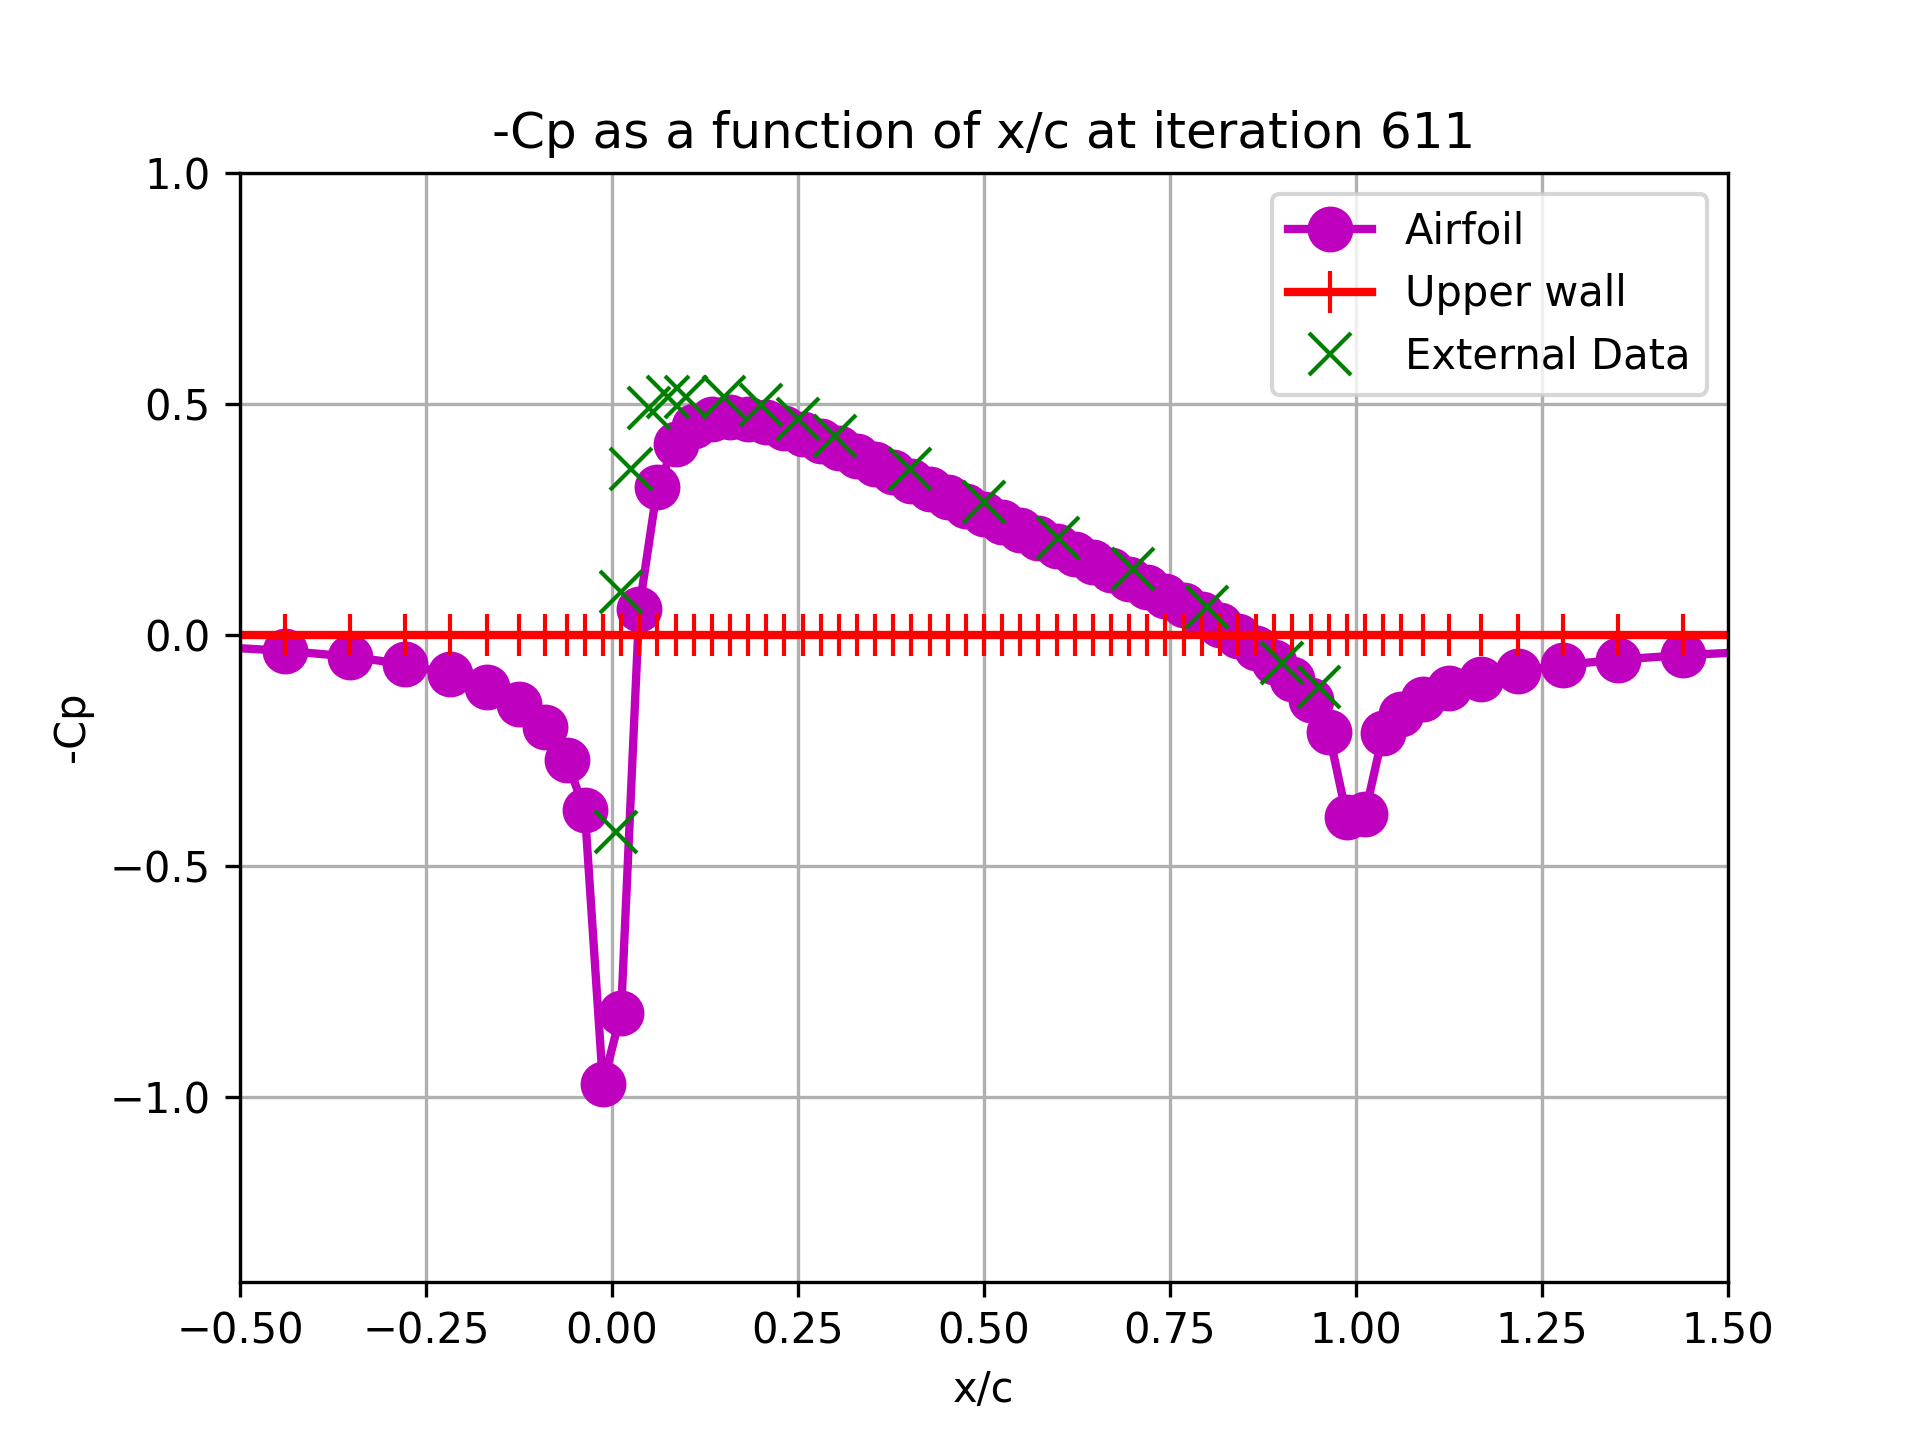
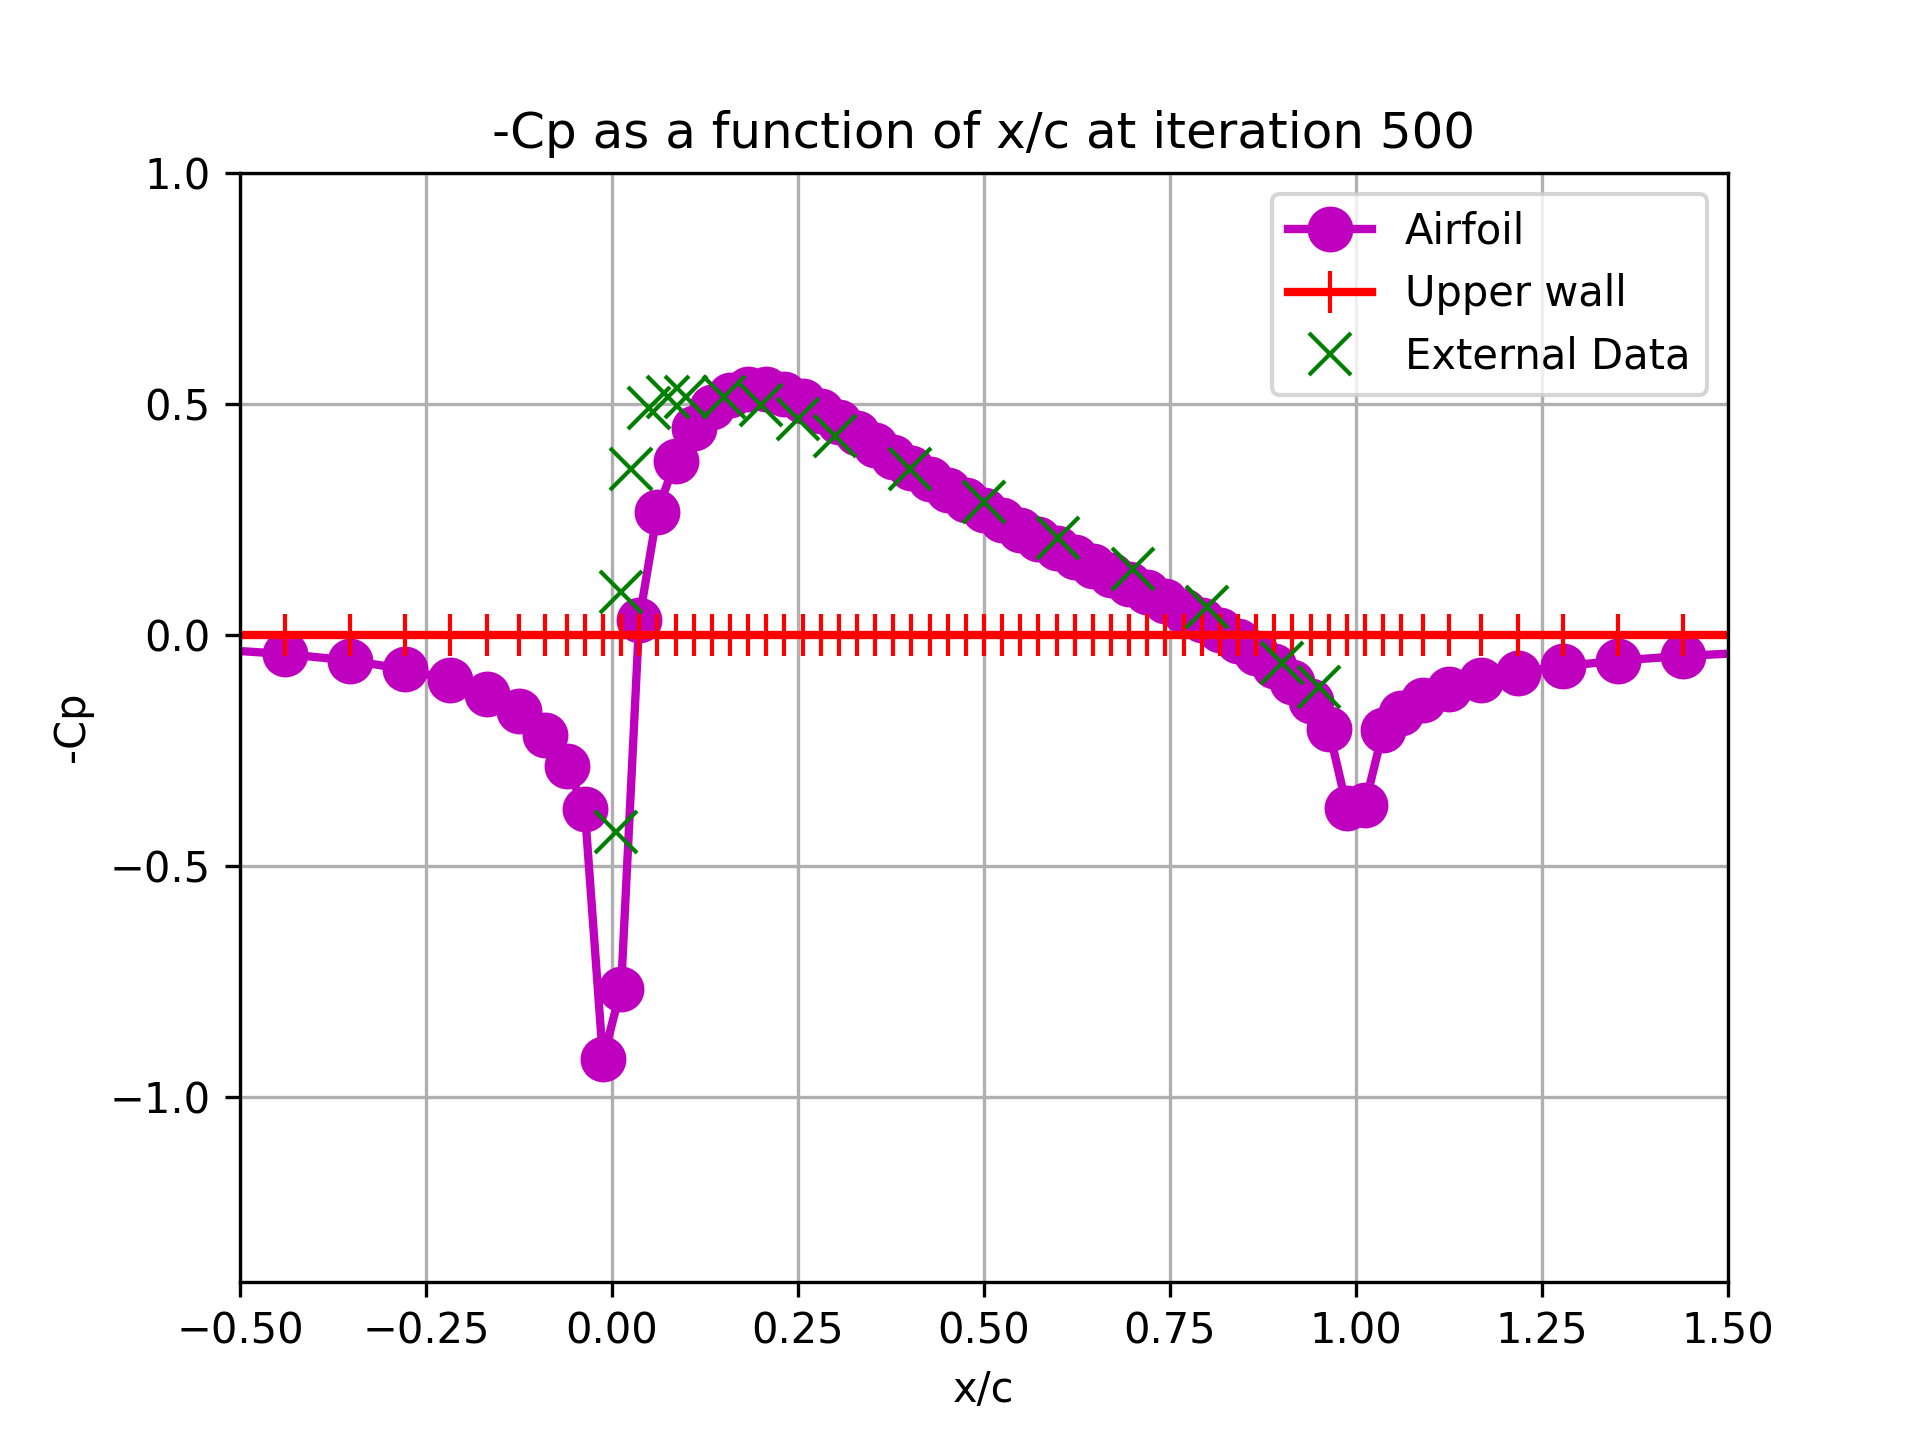
kinda working

diff --git a/HW4/code/lsd_old.py b/HW4/code/lsd_old.py
@@ -1,65 +1,64 @@
 import numpy as np
 import matplotlib.pyplot as plt
 from math import sqrt
-import time
 
-from tri import solve_tridiagonal
+def solve_tridiagonal(a, b, c, f):
+    """
+    Thomas algorithm to solve tridiagonal system.
+    Input arrays a, b, c, and f are 1D NumPy arrays.
+    This function modifies f in place and returns the solution.
+    (Based on tri.m)
+    """
+    M = len(a)
+    x = np.zeros(M)
+    # forward sweep
+    x[0] = c[0] / b[0]
+    f[0] = f[0] / b[0]
+    for j in range(1, M):
+        z = 1.0 / (b[j] - a[j] * x[j-1])
+        x[j] = c[j] * z
+        f[j] = (f[j] - a[j] * f[j-1]) * z
+    # backward sweep
+    for j in range(M-2, -1, -1):
+        f[j] = f[j] - x[j] * f[j+1]
+    return f
 
-def main(condition=0, show_plots=True):
+def main():
     # -------------------------------------------------------------------------
     # Parameters (translated from lsd.m)
     # -------------------------------------------------------------------------
+    condition = 0
+    minf = 0.8 #if condition == 1 else 0.80   # Freestream Mach number
     thickness = 0.10                         # Airfoil thickness
 
     # SLOR parameters
     omega = 1.97
-    itmax = 500
+    itmax = 800
     itplot = 200
-    
-    gamma = 1.4
 
     # Mesh input parameters
-    
-    # case from hw3
-    if condition == 1:
+    if condition <= 2:
         j_le = 33     # leading edge index
         j_te = 63     # trailing edge index
         jmax = 95     # total x points
         kmax = 33     # total y points
         xsf = 1.18    # x stretching factor
         ysf = 1.18    # y stretching factor
-        airfoil_type = 0   # airfoil type - 0 for NACA0010 and 1 for biconvex airfoil
-        minf = 0.0
     else:
-        j_le = 33
-        j_te = 73
-        jmax = 105
-        kmax = 43
-        xsf = 1.2
-        ysf = 1.2
-        if condition == 2:
-            minf = .8
-            airfoil_type = 0
-        elif condition == 3:
-            minf = 0.75
-            airfoil_type = 1
-        elif condition == 4:
-            minf = 0.8
-            airfoil_type = 0
-        elif condition == 5:
-            minf = 0.8
-            airfoil_type = 1
-        elif condition == 6:
-            minf = 0.75
-            airfoil_type = 0
+        j_le = 63
+        j_te = 123
+        jmax = 185
+        kmax = 63
+        xsf = 1.10
+        ysf = 1.10
+        if condition == 4:
             ysf = 1.0
-
 
     kconst = 3      # number of constant-spaced mesh points
     dxdy = 1.0      # ratio of dx to dy at airfoil surface
 
     # Upper wall boundary?
-    if condition == 6:
+    if condition == 4:
         iwall = 1
     else:
         iwall = 0
@@ -83,7 +82,6 @@ def main(condition=0, show_plots=True):
     # Convert: for i from (j_le - kconst - 1) down to 1 (MATLAB) => Python indices: from (j_le - kconst - 1 - 1) down to 0.
     for i in range(j_le - kconst - 2, -1, -1):
         x[i] = x[i+1] + (x[i+1] - x[i+2]) * xsf
-
 
     # Downstream stretching (MATLAB: for ji=j_te+kconst+1:1:jmax)
     for i in range(j_te + kconst, jmax):
@@ -121,12 +119,8 @@ def main(condition=0, show_plots=True):
     dxp2 = 1.0 / (dx ** 2)
     dxm2 = 1.0 / (dx ** 2)
     for j in range(1, jmax-1):
-        dxp2[j] = 1 / (dx[j]* (x[j+1] - x[j]))
-        dxm2[j] = 1 / (dx[j]* (x[j] - x[j-1]))
-        
-    # set initial things
-    dxp2[0] = dxp2[1]
-    dxm2[0] = dxm2[1]
+        dxp2[j] = 1 / (dx[j] * (x[j+1] - x[j]))
+        dxm2[j] = 1 / (dx[j] * (x[j] - x[j-1]))
 
     # Calculate spacing in y-direction
     dy = np.full(kmax, dy1)
@@ -151,7 +145,7 @@ def main(condition=0, show_plots=True):
                      0.3, 0.4, 0.5, 0.6, 0.7, 0.8, 0.9, 0.95, 1.0])
     potcp = np.array([1.0, 0.282, -0.061, -0.237, -0.325, -0.341, -0.341, -0.341,
                       -0.329, -0.309, -0.284, -0.237, -0.190, -0.138, -0.094, -0.040,
-                      0.04, 0.075, 1.0]) 
+                      0.04, 0.075, 1.0])
     
     print("DX1 is", dx1, "DY1 is", dy1)
     print("XMAX is", x[-1], "YMAX is", y[-1])
@@ -163,7 +157,6 @@ def main(condition=0, show_plots=True):
     ax1.set_title('Mesh')
     ax1.set_xlabel('x/c')
     ax1.set_ylabel('y/c')
-    
 
     # Pre-allocate arrays for SLOR iterations
     a = np.zeros(kmax)
@@ -190,19 +183,13 @@ def main(condition=0, show_plots=True):
         bc = np.zeros(jmax)
         # Loop from j_le to j_te (MATLAB indices) => Python indices: j_le-1 to j_te-1
         for j in range(j_le - 1, j_te):
-            # NACA00xx airfoil
-            if airfoil_type == 0:
-                x_int = 1.008930411365  # NACA00xx airfoil slope constant
-                # Avoid division by zero in sqrt; x[j] is positive in the airfoil region
-                dphidy = 5 * thickness * (0.2969 * 0.5 * sqrt(x_int / x[j])
-                                        - 0.126 * x_int
-                                        - 0.3516 * 2 * x_int**2 * x[j]
-                                        + 0.2843 * 3 * x_int**3 * x[j]**2
-                                        - 0.1015 * 4 * x_int**4 * x[j]**3)
-            # Biconvex airfoil
-            elif airfoil_type == 1:
-                dphidy = 2 * thickness * (1 - 2 * x[j])
-
+            x_int = 1.008930411365  # NACA00xx airfoil slope constant
+            # Avoid division by zero in sqrt; x[j] is positive in the airfoil region
+            dphidy = 5 * thickness * (0.2969 * 0.5 * sqrt(x_int / x[j])
+                                      - 0.126 * x_int
+                                      - 0.3516 * 2 * x_int**2 * x[j]
+                                      + 0.2843 * 3 * x_int**3 * x[j]**2
+                                      - 0.1015 * 4 * x_int**4 * x[j]**3)
             # Compute velocity in x-direction using central differences
             velx = 0.5 * (
                 ((phi[j+1, 0] - phi[j, 0]) / dx[j]) * (dxp2[j] / dxm2[j]) +
@@ -221,22 +208,13 @@ def main(condition=0, show_plots=True):
             for j in range(jmax):
                 phi[j, kmax-1] = phi[j, kmax-2]
 
-        # Compute A matrix
-        A = np.zeros((jmax, kmax))
-        for j in range(1, jmax-1):
-            for k in range(1, kmax-1):
-                A[j, k] = 1 - minf**2 - minf**2*(gamma + 1) * 1 * 1/(x[j+1] - x[j-1]) * ( (phi[j+1, k] - phi[j, k]) * (x[j] - x[j-1]) / (x[j+1] - x[j]) \
-                    + (phi[j, k] - phi[j-1, k]) * (x[j+1] - x[j]) / (x[j] - x[j-1]))
-
-                
         # --- Calculate residual and its L2 norm ---
         l2res = 0.0
         for k in range(1, kmax-1):
             for j in range(1, jmax-1):
-                res[j, k] = (A[j,k] *
+                res[j, k] = ((1 - minf**2) * 
                              ((phi[j+1, k] - phi[j, k]) * dxp2[j] - (phi[j, k] - phi[j-1, k]) * dxm2[j])
                              + ((phi[j, k+1] - phi[j, k]) * dyp2[k] - (phi[j, k] - phi[j, k-1]) * dym2[k]))
-                
                 l2res += res[j, k] ** 2
         l2res = sqrt(l2res / (jmax * kmax))
         if it == 1:
@@ -247,12 +225,7 @@ def main(condition=0, show_plots=True):
             istop = True
         
         print(f"Iteration {it} : L2(RES) = {l2res}")
-        
-        mu = np.where(A >= 0, 0, 1)
-        omega_jk = np.ones((jmax, kmax)) * omega
-        omega_jk[A < 0] = 1
-        
-        
+
         # --- SLOR update using tridiagonal solver along each interior x-row ---
         dphi = np.zeros((jmax, kmax))
         for j in range(1, jmax-1):
@@ -265,9 +238,9 @@ def main(condition=0, show_plots=True):
             # Interior points k = 1 to kmax-2
             for k in range(1, kmax-1):
                 a[k] = dym2[k]
-                b[k] = -(1  - mu[j,k]) *(dym2[k] + dyp2[k] + A[j,k] * (dxm2[j] + dxp2[j])) + mu[j-1,k] * A[j-1,k] * dxp2[j-1]
+                b[k] = -(dym2[k] + dyp2[k]) - (1 - minf**2) * (dxm2[j] + dxp2[j])
                 c[k] = dyp2[k]
-                f_arr[k] = -omega_jk[j,k] * (1  - mu[j,k]) *  A[j,k] * (res[j, k] + dphi[j-1, k] * dxm2[j]) - mu[j-1,k] * omega_jk[j,k] * A[j-1,k] * ((dxp2[j-1] + dxm2[j-1]) * dphi[j-1, k] - dxm2[j-1] * dphi[j-2, k])
+                f_arr[k] = -omega * (res[j, k] + (1 - minf**2) * dphi[j-1, k] * dxm2[j])
             # k = kmax-1 (upper boundary)
             a[kmax-1] = 0.0
             b[kmax-1] = 1.0
@@ -297,28 +270,19 @@ def main(condition=0, show_plots=True):
         cp[-1] = -2 * ((phi[-1, 0] - phi[-2, 0]) / (x[-1] - x[-2]))
         cpu[-1] = -2 * ((phi[-1, kmax-1] - phi[-2, kmax-1]) / (x[-1] - x[-2]))
         
-        # --- Compute number of supersonic points ---
-        supersonic_points = np.sum(A < 0)
-        
-        # mach = np.sqrt((1 - cp) / ((gamma - 1) / 2))
-
-        # supersonic_points2 = np.sum(mach > 1)
-        
-        print(f"Number of supersonic points: {supersonic_points}")
         # Plot pressure coefficient along airfoil and upper wall
-        if show_plots:
-            plt.figure(3)
-            plt.clf()
-            plt.plot(x, -cp, 'm', marker='o', linewidth=2, markersize=10, label='Airfoil')
-            plt.plot(x, -cpu, 'r', marker='+', linewidth=2, markersize=10, label='Upper wall')
-            plt.plot(potx, -potcp/np.sqrt(1 - minf**2), 'gx', linewidth=2, markersize=10, label='External Data')
-            plt.axis([-0.5, 1.5, -1.4, 1.0])
-            plt.title(f'-Cp as a function of x/c at iteration {it}')
-            plt.xlabel('x/c')
-            plt.ylabel('-Cp')
-            plt.grid(True)
-            plt.legend()
-            plt.pause(0.001)
+        plt.figure(3)
+        plt.clf()
+        plt.plot(x, -cp, 'm', marker='o', linewidth=2, markersize=10, label='Airfoil')
+        plt.plot(x, -cpu, 'r', marker='+', linewidth=2, markersize=10, label='Upper wall')
+        plt.plot(potx, -potcp/np.sqrt(1 - minf**2), 'gx', linewidth=2, markersize=10, label='External Data')
+        plt.axis([-0.5, 1.5, -1.4, 1.0])
+        plt.title(f'-Cp as a function of x/c at iteration {it}')
+        plt.xlabel('x/c')
+        plt.ylabel('-Cp')
+        plt.grid(True)
+        plt.legend()
+        plt.pause(0.001)
         
         # Plot Cp contours if required
         if it < 10 or it % itplot == 0:
@@ -331,40 +295,24 @@ def main(condition=0, show_plots=True):
                         ((phi[j, k] - phi[j-1, k]) / dx[j]) * (dxm2[j] / dxp2[j])
                     )
                 cpg[-1, k] = -2 * ((phi[-1, k] - phi[-2, k]) / (x[-1] - x[-2]))
-            if show_plots:
-                plt.figure(2)
-                plt.clf()
-                cp_levels = 50
-                cp_contours = plt.contour(xmesh, ymesh, cpg, cp_levels)
-                plt.axis([-0.25, 1.25, 0.0, 1.5])
-                plt.title(f'Cp contours at iteration {it}')
-                plt.xlabel('x/c')
-                plt.ylabel('y/c')
-                plt.pause(0.001)
+            plt.figure(2)
+            plt.clf()
+            cp_levels = 50
+            cp_contours = plt.contour(xmesh, ymesh, cpg, cp_levels)
+            plt.axis([-0.25, 1.25, 0.0, 1.5])
+            plt.title(f'Cp contours at iteration {it}')
+            plt.xlabel('x/c')
+            plt.ylabel('y/c')
+            plt.pause(0.001)
     
     # Plot the residual history
-    if show_plots:
-        plt.figure(4)
-        plt.semilogy(range(1, it+1), l2reshist[:it], 'm-', linewidth=2)
-        plt.title('Log of L2-norm as a function of iteration')
-        plt.xlabel('Iteration')
-        plt.ylabel('Log of L2-norm')
-        plt.grid(True)
-        # plt.show()
-        
-        # Save plots
-        plt.figure(3)
-        plt.savefig(f"images/pressure_coefficient-{condition}.png", dpi=300)
-
-        plt.figure(4)
-        plt.savefig(f"images/residual_history-{condition}.png", dpi=300)
-
-
-
+    plt.figure(4)
+    plt.semilogy(range(1, it+1), l2reshist[:it], 'm-', linewidth=2)
+    plt.title('Log of L2-norm as a function of iteration')
+    plt.xlabel('Iteration')
+    plt.ylabel('Log of L2-norm')
+    plt.grid(True)
+    plt.show()
 
 if __name__ == '__main__':
-    # start_time = time.time()
-    main(2, True)
-    # end_time = time.time()
-
-    # print("Elapsed time:", end_time - start_time, "seconds")
+    main()

diff --git a/test.tex b/test.tex
@@ -47,3 +47,18 @@ We also preform two additional cases, firstly a NACA 0010 airfoil at $M_\infty =
 All of the cases were run until either the number of iterations exceeded 1000 or the $L_2$ norm of the residual was reduced by three orders of magnitude. The number of iterations required, number of supersonic points, and total CPU time are summarized in Table
 
 
+\begin{table}[h]
+    \centering
+    \begin{tabular}{l c c c c c}
+        \hline
+        Case Description & $M_\infty$ & Grid Type & Iterations & Supersonic Points & CPU Time (s) \\
+        \hline
+        NACA 0010 & 0.75 & Default & XXXX & XXXX & XXXX \\
+        Biconvex & 0.80 & Default & XXXX & XXXX & XXXX \\
+        NACA 0010 & 0.75 & Equal Spacing & XXXX & XXXX & XXXX \\
+        NACA 0010 & 0.80 & Stretched & XXXX & XXXX & XXXX \\
+        \hline
+    \end{tabular}
+    \caption{Summary of computations: number of iterations, supersonic points, and CPU time.}
+    \label{tab:results}
+\end{table}
